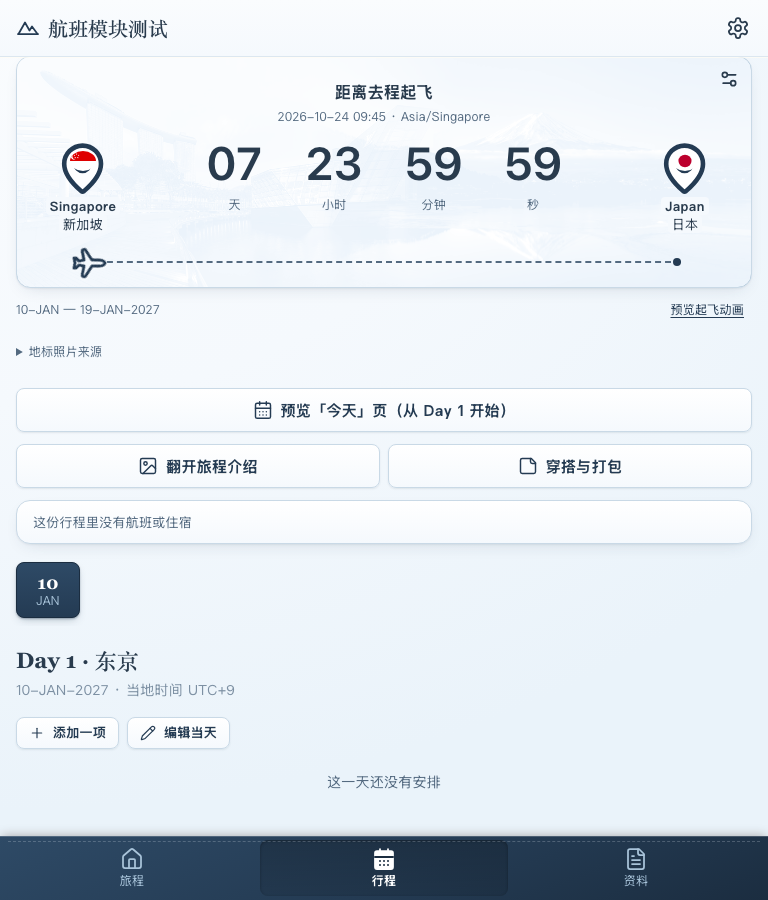
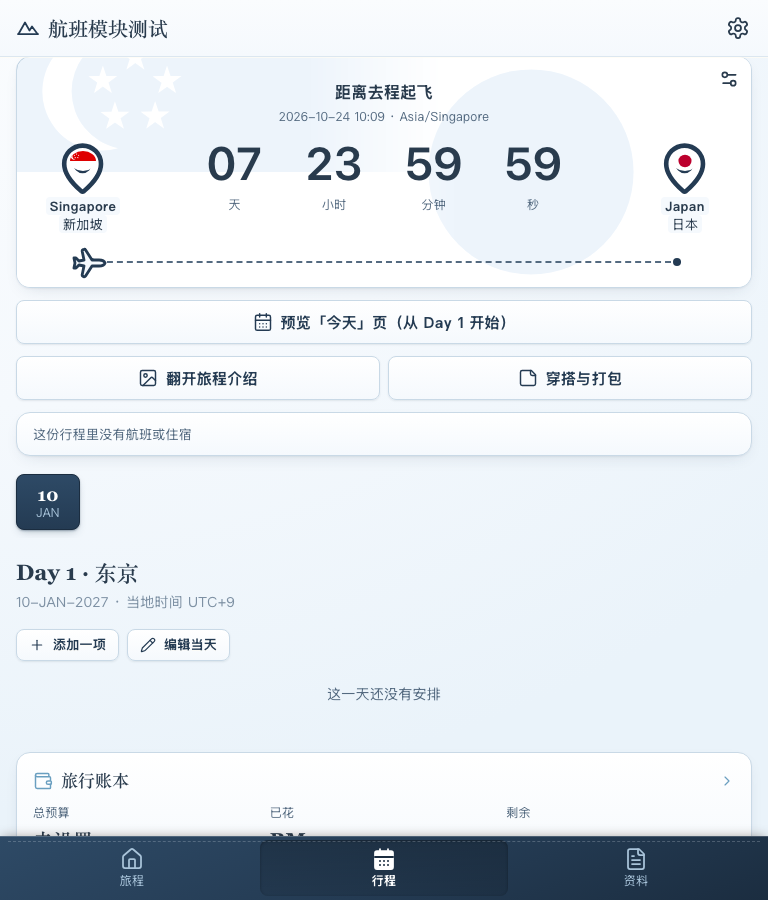
Add local flight-card photos, default flags, and clean card layout

diff --git a/src/components/FlightCountdown.tsx b/src/components/FlightCountdown.tsx
@@ -1,18 +1,18 @@
 import { memo, useEffect, useRef, useState } from 'react';
 import { Plane, MapPin, Settings2 } from 'lucide-react';
-import type { TripData } from '../hooks/data';
+import { useBlobUrl, type TripData } from '../hooks/data';
 import type { FlightCountdownSettings } from '../domain/types';
 import { asset, countries, countryOf, crossedDeparture, flightPhase, fromLocal, localTime, validFlightSettings, validZone } from '../domain/flightCountdown';
 import { remaining } from '../domain/countdown';
-import { setFlightCountdown } from '../db/repo';
+import { flightBackgroundKey, setFlightBackground, setFlightCountdown } from '../db/repo';
+import { prepareFile, TooLargeError } from '../lib/files';
 import { Sheet } from './Layout';
-import { Button, StatusChip } from './Basics';
+import { Button } from './Basics';
 import s from './FlightCountdown.module.css';
-import credits from '../../public/landing/flight-countdown/credits.json';
 
-const Scenery = memo(function Scenery({ origin, destination }: { origin: string; destination: string }) {
+const Scenery = memo(function Scenery({ origin, destination, left, right }: { origin: string; destination: string; left?: string; right?: string }) {
   const photographs = [origin, destination].map((code, i) => <div className={i ? s.rightImage : s.leftImage} key={i}>
-    {countryOf(code) && <img className={s.landmark} src={asset(code, 'landmark')} alt="" />}
+    {(i ? right : left) || countryOf(code) ? <img className={s.landmark} src={(i ? right : left) || asset(code, 'flag')} alt="" /> : null}
   </div>);
   return <div className={s.scenery} aria-hidden="true">{photographs}</div>;
 });
@@ -70,6 +70,8 @@ function initialDraft(td: TripData): Draft {
 }
 
 export default function FlightCountdown({ td, dateRange, offline }: { td: TripData; dateRange?: string; offline?: boolean }) {
+  const leftPhoto = useBlobUrl(flightBackgroundKey(td.trip.id, 'origin'));
+  const rightPhoto = useBlobUrl(flightBackgroundKey(td.trip.id, 'destination'));
   const value = validFlightSettings(td.trip.flightCountdown) ? td.trip.flightCountdown : undefined;
   const [editing, setEditing] = useState(false);
   const [demo, setDemo] = useState<FlightCountdownSettings>();
@@ -120,9 +122,28 @@ export default function FlightCountdown({ td, dateRange, offline }: { td: TripDa
     catch(e) { setError(e instanceof Error ? e.message : '保存失败，请重试。'); }
     finally { setBusy(false); }
   }
+  async function savePhoto(side: 'origin' | 'destination', file: File | null) {
+    setBusy(true); setError('');
+    try {
+      let blob: Blob | null = null;
+      if (file) {
+        if (!file.type.startsWith('image/') || file.type === 'image/svg+xml') throw new Error('请选择照片文件。');
+        blob = await prepareFile(file);
+        const url = URL.createObjectURL(blob);
+        try {
+          await new Promise<void>((resolve, reject) => {
+            const img = new Image(); img.onload = () => resolve(); img.onerror = () => reject(new Error('无法读取这张照片，请尝试 JPG、PNG 或 WebP。')); img.src = url;
+          });
+        } finally { URL.revokeObjectURL(url); }
+      }
+      await setFlightBackground(td.trip.id, side, blob);
+      setNotice(file ? '照片已保存到本机，已自动应用固定背景效果。' : '已恢复该侧国家的国旗背景。');
+    } catch (e) { setError(e instanceof TooLargeError ? '照片过大，请选择 20 MB 以内的照片。' : e instanceof Error && e.name === 'UnknownError' ? '当前浏览器无法保存照片，请使用普通浏览窗口再试。' : e instanceof Error ? e.message : '照片保存失败，请重试。'); }
+    finally { setBusy(false); }
+  }
   return <section className={s.module} aria-label="航班倒计时">
     <div className={s.card}>
-      <Scenery origin={origin} destination={destination} />
+      <Scenery origin={origin} destination={destination} left={leftPhoto} right={rightPhoto} />
       <button className={s.edit} aria-label="设置航班时间" onClick={openSettings}><Settings2 size={20} /></button>
       {demo || value ? <Clock key={JSON.stringify(demo ?? value)} value={(demo ?? value)!} demo={!!demo} /> : <div className={s.information}><p className={s.heading}>下一段旅程，从这里开始</p><p className={s.date}>设置去程与回程起飞时间，开启准确倒数</p><Button variant="outline" onClick={openSettings}>设置航班时间</Button></div>}
       {!demo && !value && <div className={s.route} aria-hidden="true"><span className={s.aircraft}><Plane size={34} /></span></div>}
@@ -135,20 +156,32 @@ export default function FlightCountdown({ td, dateRange, offline }: { td: TripDa
         </button>;
       })}
     </div>
-    <div className={s.footer}>
-      {dateRange && <span>{dateRange}</span>}
-      {offline && <StatusChip variant="success">行程已离线保存</StatusChip>}
-      <button type="button" className={s.preview} onClick={() => { if (demo) { setDemo(undefined); setNotice('已恢复真实航班状态。'); } else preview(); }}>{demo ? '返回真实倒数' : '预览起飞动画'}</button>
-    </div>
-    <p className={s.notice} role="status">{notice}</p>
-    <details className={s.credits}><summary>地标照片来源</summary><ul>{credits.filter(c => c.country === origin || c.country === destination).map(c => <li key={c.country}><a href={c.source} target="_blank" rel="noreferrer">{countryOf(c.country)?.landmark}</a> · {c.author} · <a href={c.license_url || c.source} target="_blank" rel="noreferrer">{c.license}</a>（已缩小、裁切与渐隐）</li>)}</ul></details>
     <Sheet open={!!pick} onClose={() => !busy && setPick(undefined)} title={pick === 'origin' ? '选择出发国家' : '选择目的地国家'}>
-      <div className={s.form}><p>每国一个固定地标。切换国家保留真实起飞时刻，并换算为该国默认时区。</p>
+      <div className={s.form}><p>默认背景跟随国家显示国旗；自选照片会保留。切换国家保留真实起飞时刻，并换算为该国默认时区。</p>
         <div className={s.countryGrid}>{countries.map(c => <button disabled={busy} key={c.code} onClick={() => void choose(c.code)} aria-pressed={(pick === 'origin' ? origin : destination) === c.code}><img src={asset(c.code,'flag')} alt="" /><span>{c.zh}<small>{c.en}</small></span></button>)}</div>
         {error && <p role="alert">{error}</p>}<Button variant="outline" disabled={busy} onClick={() => setPick(undefined)}>关闭</Button>
       </div>
     </Sheet>
     <Sheet open={editing} onClose={() => !busy && setEditing(false)} title="航班时间设置">
+      <div className={s.form}>
+        <div className={s.settingsMeta}>{dateRange && <span>{dateRange}</span>}{offline && <span>行程已离线保存</span>}</div>
+        <p>默认使用国旗。你可以替换左右照片；所有背景自动使用固定的黑白 Overlay 效果。</p>
+        <div className={s.photos}>
+          {(['origin', 'destination'] as const).map((side, i) => {
+            const photo = i ? rightPhoto : leftPhoto;
+            const country = i ? destination : origin;
+            const label = i ? '右侧' : '左侧';
+            return <div className={s.photoSlot} key={side}>
+              <div className={s.photoPreview}>{(photo || countryOf(country)) && <img src={photo || asset(country, 'flag')} alt={`${label}背景预览`} />}</div>
+              <label className={s.upload}>{label}背景照片<input type="file" accept="image/*" disabled={busy} onChange={e => { const file = e.target.files?.[0]; e.target.value = ''; if (file) void savePhoto(side, file); }} /></label>
+              <Button variant="outline" disabled={busy || !photo} onClick={() => void savePhoto(side, null)}>{label}恢复国旗</Button>
+            </div>;
+          })}
+        </div>
+        <Button variant="outline" disabled={busy} onClick={() => { setEditing(false); preview(); }}>预览起飞动画</Button>
+        <p className={s.notice} role="status">{notice}</p>
+        <details className={s.credits}><summary>国旗素材许可</summary><a href="/landing/flight-countdown/FLAGS-LICENSE.txt" target="_blank" rel="noreferrer">flag-icons · MIT</a></details>
+      </div>
       <form className={s.form} onSubmit={e => void save(e)}>
         <p>时间按各航段出发地的当地时区填写。国家采用默认时区；多时区国家可在下方调整。切换国家会换算已填写的有效时间，保持真实起飞时刻。</p>
         {(['origin','destination'] as const).map((side,i) => <label key={side}>{i ? '目的地国家' : '出发国家'}<select required value={draft[side]} onChange={e => changeCountry(side,e.target.value)}><option value="">请选择国家</option>{countries.map(c=><option key={c.code} value={c.code}>{c.zh} · {c.en}</option>)}</select></label>)}

diff --git a/src/__tests__/flightCountdown.test.ts b/src/__tests__/flightCountdown.test.ts
@@ -58,3 +58,44 @@ describe('flight persistence is trip-scoped and non-destructive',()=>{
   expect((await db.trips.get(trip.id))?.flightCountdown).toEqual(value);
  });
 });
+
+describe('flight background photo lifecycle', () => {
+ beforeEach(async()=>{await Promise.all(db.tables.map(t=>t.clear()));await db.trips.put(trip);await db.trips.put({...trip,id:'other'});});
+ it('isolates sides and trips, replaces a photo, and restores only that flag',async()=>{
+  const {setFlightBackground,flightBackgroundKey}=await import('../db/repo');
+  const first=new Blob(['first'],{type:'image/jpeg'}),second=new Blob(['second'],{type:'image/png'});
+  await setFlightBackground(trip.id,'origin',first);await setFlightBackground(trip.id,'destination',second);
+  await setFlightBackground(trip.id,'origin',second);
+  expect(await (await db.blobs.get(flightBackgroundKey(trip.id,'origin')))!.blob.text()).toBe('second');
+  expect(await db.blobs.get(flightBackgroundKey('other','origin'))).toBeUndefined();
+  await setFlightBackground(trip.id,'origin',null);
+  expect(await db.blobs.get(flightBackgroundKey(trip.id,'origin'))).toBeUndefined();
+  expect(await (await db.blobs.get(flightBackgroundKey(trip.id,'destination')))!.blob.text()).toBe('second');
+  expect((await db.trips.get(trip.id))?.startDate).toBe(trip.startDate);
+ });
+ it('rejects invalid images and deleted trips without creating orphan blobs',async()=>{
+  const {setFlightBackground}=await import('../db/repo');
+  for(const blob of [new Blob(['bad'],{type:'text/plain'}),new Blob(['<svg/>'],{type:'image/svg+xml'}),new Blob([],{type:'image/jpeg'})]) await expect(setFlightBackground(trip.id,'origin',blob)).rejects.toThrow();
+  await expect(setFlightBackground('missing','origin',new Blob(['x'],{type:'image/jpeg'}))).rejects.toThrow();
+  expect(await db.blobs.count()).toBe(0);
+ });
+ it('includes photos only in this trip package and restores their bytes',async()=>{
+  const {setFlightBackground,flightBackgroundKey,exportTripPackage,restoreBackupDetailed,tripPackageInfo}=await import('../db/repo');
+  await setFlightBackground(trip.id,'origin',new Blob(['my photo'],{type:'image/jpeg'}));
+  await setFlightBackground('other','origin',new Blob(['other photo'],{type:'image/png'}));
+  expect(await tripPackageInfo(trip.id)).toEqual({files:1,bytes:8});
+  const zip=await exportTripPackage(trip.id,{attachments:true});
+  await Promise.all(db.tables.map(t=>t.clear()));await restoreBackupDetailed(zip);
+  expect(await (await db.blobs.get(flightBackgroundKey(trip.id,'origin')))!.blob.text()).toBe('my photo');
+  expect(await db.blobs.get(flightBackgroundKey('other','origin'))).toBeUndefined();
+ });
+ it('preserves photos through itinerary reimport and cleans them up when deleting the trip',async()=>{
+  const {setFlightBackground,flightBackgroundKey,deleteTrip}=await import('../db/repo');
+  await setFlightBackground(trip.id,'origin',new Blob(['photo'],{type:'image/jpeg'}));
+  const parsed=parseMd('# 测试旅程\n- 出发地时区: Asia/Singapore\n## Day 1 | 2027-01-10 | 东京 | Asia/Tokyo\n### 09:00 | spot | 测试景点');
+  await saveImport(parsed,'synthetic QA',trip.id);
+  expect(await db.blobs.get(flightBackgroundKey(trip.id,'origin'))).toBeDefined();
+  await deleteTrip(trip.id);expect(await db.blobs.get(flightBackgroundKey(trip.id,'origin'))).toBeUndefined();
+  expect(await db.trips.get('other')).toBeDefined();
+ });
+});

diff --git a/src/db/repo.ts b/src/db/repo.ts
@@ -407,7 +407,7 @@ export async function deleteTrip(tripId: string): Promise<void> {
     await db.packItems.where('tripId').equals(tripId).delete();
     await db.packChecks.where('tripId').equals(tripId).delete();
     const docs = await db.docs.where('tripId').equals(tripId).toArray();
-    await db.blobs.bulkDelete([...docs.map((d) => d.blobKey), ...(trip?.coverBlobKey ? [trip.coverBlobKey] : [])]);
+    await db.blobs.bulkDelete([...docs.map((d) => d.blobKey), ...(trip?.coverBlobKey ? [trip.coverBlobKey] : []), flightBackgroundKey(tripId, 'origin'), flightBackgroundKey(tripId, 'destination')]);
     await db.docs.bulkDelete(docs.map((d) => d.id));
     await db.days.where('tripId').equals(tripId).delete();
     await db.items.where('tripId').equals(tripId).delete();
@@ -503,7 +503,9 @@ async function tripBlobKeys(tripId: string): Promise<{ keys: string[]; missing: 
   const trip = await db.trips.get(tripId);
   const docs = await db.docs.where('tripId').equals(tripId).toArray();
   const garments = await tripGarments(tripId);
+  const flightPhotos = (await db.blobs.bulkGet([flightBackgroundKey(tripId, 'origin'), flightBackgroundKey(tripId, 'destination')])).filter((b): b is BlobRecord => !!b);
   const wanted = [
+    ...flightPhotos.map(b => b.key),
     ...docs.filter((d) => !isLinkDoc(d)).map((d) => d.blobKey),
     ...(trip?.coverBlobKey ? [trip.coverBlobKey] : []),
     ...garments.flatMap((g) => (g.photoBlobKey ? [g.photoBlobKey] : [])),
@@ -932,4 +934,20 @@ export async function setFlightCountdown(tripId: string, value: import('../domai
   if (!validFlightSettings(value)) throw new Error('请检查国家、时区及起飞时间，回程必须晚于去程。');
   const updated = await db.trips.update(tripId, { flightCountdown: value, updatedAt: now() });
   if (!updated) throw new Error('旅程已不存在，无法保存。');
+}
+
+/** Flight-card photos use the existing blob table; deterministic keys survive reimport. */
+export function flightBackgroundKey(tripId: string, side: 'origin' | 'destination'): string {
+  return `flight-background:${tripId}:${side}`;
+}
+export async function setFlightBackground(tripId: string, side: 'origin' | 'destination', blob: Blob | null): Promise<void> {
+  if (blob && (!blob.type.startsWith('image/') || blob.type === 'image/svg+xml' || !blob.size || blob.size > 20 * 1024 * 1024)) throw new Error('请选择 20 MB 以内的有效照片。');
+  // Materialize file-backed data before the transaction (Safari cannot always persist picked File handles).
+  const photo = blob ? new Blob([await blob.arrayBuffer()], { type: blob.type }) : null;
+  await db.transaction('rw', db.trips, db.blobs, async () => {
+    if (!await db.trips.get(tripId)) throw new Error('旅程已不存在，无法保存。');
+    const key = flightBackgroundKey(tripId, side);
+    if (photo) await db.blobs.put({ key, blob: photo });
+    else await db.blobs.delete(key);
+  });
 }

diff --git a/src/components/FlightCountdown.module.css b/src/components/FlightCountdown.module.css
@@ -20,8 +20,8 @@
 .route { position: absolute; left: 55px; right: 55px; z-index: 3; pointer-events: none; bottom: 20px; border-top: 2px dashed var(--color-icon); height: 1px; }
 .route::before, .route::after { content: ''; position: absolute; top: -5px; width: 8px; height: 8px; border-radius: 50%; background: var(--color-primary); }
 .route::before { left: 0; }.route::after { right: 0; }
-.aircraft { position: absolute; left: 0; bottom: 0; width: 100%; height: 34px; color: var(--color-primary); pointer-events: none; filter: drop-shadow(0 1px 1px var(--color-surface)); }
-.aircraft svg { transform: translate(-50%, 17px) rotate(45deg); fill: var(--color-surface-subtle); }
+.aircraft { position: absolute; left: 0; bottom: 0; width: 100%; height: 34px; color: var(--color-primary); pointer-events: none; }
+.aircraft svg { display: block; overflow: visible; transform: translate(-50%, 17px) rotate(45deg); fill: var(--color-surface-subtle); }
 .trail { position: absolute; top: -2px; height: 2px; width: 100%; background: var(--color-accent); transform-origin: left; transform: scaleX(0); }
 .flying .aircraft { animation: flight 4.6s linear both; }
 .flying .trail { animation: trail 4.6s linear both; }
@@ -49,5 +49,12 @@
 
 .credits { font-size: var(--fs-caption); color: var(--color-text-2); }.credits summary { cursor: pointer; min-height: 44px; padding-top: 12px; }.credits a { color: var(--color-primary); text-decoration: underline; }.credits ul { padding-left: 20px; overflow-wrap: anywhere; }
 
-.footer { display: flex; align-items: center; flex-wrap: wrap; gap: var(--space-2); font-size: var(--fs-caption); color: var(--color-text-2); }
-.preview { margin-left: auto; min-height: 44px; padding: 0 8px; color: var(--color-primary); text-decoration: underline; text-underline-offset: 3px; }
+
+.settingsMeta { display: flex; flex-wrap: wrap; gap: 12px; font-size: var(--fs-caption); color: var(--color-text-2); }
+.photos { display: grid; grid-template-columns: repeat(2, minmax(0, 1fr)); gap: 12px; }
+.photoSlot { min-width: 0; display: flex; flex-direction: column; gap: 8px; }
+.photoPreview { height: 90px; overflow: hidden; isolation: isolate; border-radius: var(--radius-sm); background: var(--color-surface-subtle); }
+.photoPreview img { width: 100%; height: 100%; object-fit: cover; filter: grayscale(1) contrast(1.2); mix-blend-mode: overlay; }
+.form .upload { position: relative; min-height: 44px; display: grid; place-items: center; padding: 8px; border: 1px solid var(--color-border); border-radius: var(--radius-sm); cursor: pointer; background: var(--color-surface-subtle); text-align: center; }
+.upload input { position: absolute; inset: 0; opacity: 0; cursor: pointer; }
+.upload:focus-within { outline: 2px solid var(--color-primary); outline-offset: 2px; }

diff --git a/qa/flight-countdown/photos.py b/qa/flight-countdown/photos.py
@@ -1,0 +1,63 @@
+import os,json,tempfile,shutil
+from pathlib import Path
+from playwright.sync_api import sync_playwright,expect
+base=os.environ.get('FLIGHT_QA_URL','http://127.0.0.1:4190')
+out=Path('outputs');out.mkdir(exist_ok=True)
+results={}
+production=os.environ.get('FLIGHT_QA_PRODUCTION')=='1'
+with sync_playwright() as pw:
+ for name in os.environ.get('FLIGHT_QA_BROWSERS','chromium,webkit').split(','):
+  profile=None
+  if name=='webkit':
+   # WebKit private contexts cannot store Blob records; use an isolated normal profile.
+   profile=tempfile.mkdtemp(prefix='flight-webkit-')
+   ctx=pw.webkit.launch_persistent_context(profile,viewport={'width':1280,'height':900})
+   browser=None
+  else:
+   browser=getattr(pw,name).launch();ctx=browser.new_context(viewport={'width':1280,'height':900})
+  page=ctx.new_page();page.goto(base)
+  if production:
+   page.evaluate('''async()=>{await navigator.serviceWorker.ready;await new Promise((resolve,reject)=>{const req=indexedDB.open('travel-rundown');req.onsuccess=()=>{const db=req.result;const tx=db.transaction(['trips','days'],'readwrite');tx.objectStore('trips').put({id:'photo-qa',title:'东京 · 富士山 · 北海道',startDate:'2027-01-10',endDate:'2027-01-19',homeTz:'Asia/Singapore',destination:'日本',theme:'summer',translate:{app:'google-translate',from:'auto',to:'zh-CN'},sourceMd:'',importedAt:'',updatedAt:'',flightCountdown:{origin:'SG',destination:'JP',departureTz:'Asia/Singapore',returnTz:'Asia/Tokyo',departureAt:Date.now()+86400000,returnAt:Date.now()+864000000}});tx.objectStore('days').put({id:'photo-day',tripId:'photo-qa',index:1,date:'2027-01-10',tz:'Asia/Tokyo',city:'东京'});tx.oncomplete=()=>{db.close();resolve()};tx.onerror=reject;};req.onerror=reject;});}''')
+  else:
+   page.evaluate('''async()=>{const {db}=await import('/src/db/schema.ts');await db.trips.put({id:'photo-qa',title:'东京 · 富士山 · 北海道',startDate:'2027-01-10',endDate:'2027-01-19',homeTz:'Asia/Singapore',destination:'日本',theme:'summer',translate:{app:'google-translate',from:'auto',to:'zh-CN'},sourceMd:'',importedAt:'',updatedAt:'',flightCountdown:{origin:'SG',destination:'JP',departureTz:'Asia/Singapore',returnTz:'Asia/Tokyo',departureAt:Date.now()+86400000,returnAt:Date.now()+864000000}});await db.days.put({id:'photo-day',tripId:'photo-qa',index:1,date:'2027-01-10',tz:'Asia/Tokyo',city:'东京'});}''')
+  page.goto(base+'/itinerary/photo-qa');card=page.locator('section[aria-label="航班倒计时"]');expect(card).to_be_visible();scenery=card.locator('div[aria-hidden="true"]').first
+  expect(scenery.locator('img')).to_have_count(2);assert scenery.locator('img').evaluate_all('(xs)=>xs.every(x=>x.src.endsWith("-flag.svg"))')
+  assert card.locator(':scope > *').count()==1
+  page.screenshot(path=str(out/f'{name}-flag-default.png'))
+  plane=page.locator('[data-flight-route] svg');r=plane.bounding_box();page.screenshot(path=str(out/f'{name}-plane-before.png'),clip={'x':r['x']-6,'y':r['y']-6,'width':r['width']+12,'height':r['height']+12})
+  page.get_by_role('button',name='设置航班时间',exact=True).first.click()
+  page.get_by_label('左侧背景照片').set_input_files('public/landing/flight-countdown/SG-landmark.png')
+  expect(page.get_by_role('status')).to_contain_text('照片已保存')
+  page.get_by_label('右侧背景照片').set_input_files('public/landing/flight-countdown/JP-landmark.png')
+  expect(page.get_by_role('button',name='右侧恢复国旗')).to_be_enabled()
+  page.wait_for_timeout(250);page.screenshot(path=str(out/f'{name}-photo-settings.png'))
+  page.get_by_label('左侧背景照片').set_input_files({'name':'bad.png','mimeType':'image/png','buffer':b'not a photo'})
+  expect(page.get_by_role('alert')).to_contain_text('无法读取')
+  page.keyboard.press('Escape');page.reload();expect(scenery.locator('img[src^="blob:"]')).to_have_count(2)
+  assert scenery.evaluate('(e)=>getComputedStyle(e).filter')=='grayscale(1) contrast(1.2)'
+  assert scenery.evaluate('(e)=>getComputedStyle(e).mixBlendMode')=='overlay'
+  assert scenery.locator('img').evaluate_all('(xs)=>xs.every(x=>x.complete&&x.naturalWidth>0)')
+  for width in [1280,768,390,320]:
+   page.set_viewport_size({'width':width,'height':900});card.scroll_into_view_if_needed();page.wait_for_timeout(150);assert page.evaluate('document.documentElement.scrollWidth<=innerWidth')
+   page.screenshot(path=str(out/f'{name}-custom-{width}.png'))
+  page.get_by_role('button',name='修改目的地国家').click();page.get_by_role('button',name='泰国 Thailand').click();expect(page.get_by_role('dialog')).to_have_count(0)
+  expect(scenery.locator('img[src^="blob:"]')).to_have_count(2)
+  page.get_by_role('button',name='设置航班时间',exact=True).first.click()
+  page.get_by_role('button',name='左侧恢复国旗').click();expect(page.get_by_role('status')).to_contain_text('已恢复该侧');expect(page.get_by_role('button',name='左侧恢复国旗')).to_be_disabled()
+  page.keyboard.press('Escape');page.reload();expect(scenery.locator('img[src^="blob:"]')).to_have_count(1)
+  assert scenery.locator('img').first.get_attribute('src').endswith('SG-flag.svg')
+  if production:
+   page.wait_for_function('navigator.serviceWorker.controller!==null')
+   ctx.set_offline(True);page.reload();expect(scenery.locator('img[src^="blob:"]')).to_have_count(1)
+   assert scenery.locator('img').nth(1).evaluate('(x)=>x.complete&&x.naturalWidth>0')
+   page.get_by_role('button',name='设置航班时间',exact=True).first.click()
+   page.get_by_label('左侧背景照片').set_input_files('public/landing/flight-countdown/CN-landmark.png')
+   expect(page.get_by_role('status')).to_contain_text('照片已保存');page.keyboard.press('Escape');page.reload()
+   expect(scenery.locator('img[src^="blob:"]')).to_have_count(2)
+   assert scenery.locator('img').evaluate_all('(xs)=>xs.every(x=>x.complete&&x.naturalWidth>0)')
+  results[name]={'offline_reload_and_upload':production,'defaults':'flags','uploads':'two sides survive reload','style':'fixed grayscale overlay','reset':'one side only','invalid_photo':'rejected','country_change':'custom photo retained','widths':[1280,768,390,320]}
+  print(name,results[name],flush=True)
+  ctx.close()
+  if browser:browser.close()
+  if profile:shutil.rmtree(profile)
+json.dump(results,open(out/'photo-checks.json','w'),indent=2);print(json.dumps(results))

diff --git a/qa/flight-countdown/motion.py b/qa/flight-countdown/motion.py
@@ -13,6 +13,7 @@ with sync_playwright() as pw:
   page.evaluate('''async()=>{const {db}=await import('/src/db/schema.ts');await db.trips.put({id:'motion-qa',title:'东京 · 富士山 · 北海道',startDate:'2027-01-10',endDate:'2027-01-19',homeTz:'Asia/Singapore',destination:'日本',theme:'winter',translate:{app:'google-translate',from:'auto',to:'zh-CN'},sourceMd:'',importedAt:'',updatedAt:'',flightCountdown:{origin:'SG',destination:'JP',departureTz:'Asia/Singapore',returnTz:'Asia/Tokyo',departureAt:Date.now()-100000,returnAt:Date.now()-10000}});await db.days.put({id:'motion-day',tripId:'motion-qa',index:1,date:'2027-01-10',tz:'Asia/Tokyo',city:'东京'});}''')
   page.goto(base+'/itinerary/motion-qa');card=page.locator('section[aria-label="航班倒计时"]');expect(card).to_have_count(1);card.scroll_into_view_if_needed()
   saved=page.evaluate('''async()=>{const {db}=await import('/src/db/schema.ts');return (await db.trips.get('motion-qa')).flightCountdown}''')
+  page.get_by_role('button',name='设置航班时间',exact=True).first.click()
   page.get_by_role('button',name='预览起飞动画').click()
   page.wait_for_selector('[data-flight-phase="flying"]')
   plane=page.locator('[data-flight-route] svg')

diff --git a/docs/flight-countdown/README.md b/docs/flight-countdown/README.md
@@ -1,47 +1,28 @@
-# 行程页顶部航班倒计时
+# 行程页顶部航班卡
 
-本 PR 仅实现用户授权的航班倒计时模块。根据 2026-10-16 截图反馈，入口改为行程页顶部原 HeroCover 位置；StoryPage 恢复与 main 一致。
-视觉依据：用户提供的 `Travel_Rundown_Flight_Countdown_Claude_Package/reference_visual.png`；行为依据同包 Markdown 与 HTML 原型。参考包不进入应用，截图中的示例航班日期不作为真实数据。
+仅开发用户授权的航班卡模块。卡片位于行程页原 HeroCover 位置，StoryPage 与 main 一致。默认国旗或用户自己的左右照片，各占卡片宽度 60%，中间 20% 交叉融合。背景固定为黑白 Overlay、opacity 1、contrast 1.2，无模糊和可调滤镜。Pin 内彩色小国旗保留，Pin 图标为 55.2px。
 
-## 改动边界
+## 界面与行为
 
-- `ItineraryPage.tsx` 仅替换顶部封面为航班卡并移除不再使用的封面 URL hook。日期及离线状态仍显示。
-- `PhaseCard.tsx` 新增可选参数，仅在本入口隐藏旧的重复出发倒数，其他准备提醒、统计和操作完整保留。
-- `StoryPage.tsx` 与 main 一致；原照片环、标题、行程、餐饮等内容不变。
-- 新增 `FlightCountdown.tsx` / CSS 和纯计算模块 `domain/flightCountdown.ts`。
-- `Trip` 仅新增可选 `flightCountdown`，旧旅程无需迁移；使用原 Dexie trip 表，无新数据库、表、索引或版本号。
-- `repo.ts` 仅新增配置保存函数，以及重新导入时保留该配置的一行赋值。没有修改导入解析、行程日期、项目 key、订单或其他业务行为。
-- 未修改 tokens、全局样式、依赖、PWA 配置、guard 或锁文件。卡片读取现有四季变量；PNG / SVG 进入已有预缓存规则，首次成功缓存后支持离线换国。
-- 新增模块专用照片、国旗、作者及许可证记录；照片衍生文件仍遵守各自原许可证。国旗来自 flag-icons v7.5.0（MIT）。
+- 每阶段仅显示一张卡。原卡片下的日期、离线提示、保存说明、来源和预览入口全部收进右上角设置，不再占据行程页空间。
+- 设置中可独立上传、替换左右照片，或恢复该侧当前国家的国旗；切换国家保留自选照片。上传会使用现有图片压缩流程，校验实际可解码性，拦截损坏文件和超过限制的照片。
+- 起飞按每航段的当地时区输入，保存 UTC 毫秒及 IANA 时区。去程到点后沿航线飞行 4.6 秒，再切换距离回程起飞的倒数。起飞前的完整飞机已移除导致裁切的父级滤镜。
+- 晚进入、刷新或休眠恢复按真实时刻定位；不重播过去起飞。尊重减少动态效果，回程起飞后显示结束。设置中的演示只用组件内存，8.5 秒后恢复真实状态，不写入虚拟时间。
 
-## 时间与状态
+## 数据和改动边界
 
-保存 UTC 毫秒和 IANA 显示时区；两段都按各自出发地当地时间解释。切换国家保留已保存的真实瞬间并更新显示时区。直接编辑时区时，表单明确说明会重新解释当地时间。非法日期、时区、夏令时缺失/重复时刻和不晚于去程的回程均拦截。
-
-只有连续可见页面跨过去程时刻才播放 4.6s 飞机过场。晚进入、刷新和休眠恢复按绝对时间定位；减少动态效果时跳过动画。回程起飞后显示结束，不倒数到回程落地。无配置时显示设置入口，不虚构机票信息。每份旅程独立，保存的卡片设置不随行程改期自动平移，需在卡片中明确修改。
-
-照片在中间重叠交叉合成，没有纯色空白间隔；按最新反馈恢复原图细节、去掉模糊，并使用黑白 Overlay 混合。飞机位于连线上，抵达后保留在右侧。新增“预览起飞动画”，1.5 秒后播放相同的 4.6 秒动画，8.5 秒后恢复真实状态；演示只在组件内存中运行，不保存虚拟时间。
+- 自选照片沿用现有 blobs 表和 useBlobUrl 生命周期，键为 flight-background:<tripId>:origin / destination；没有新表、字段、数据库版本或依赖。
+- repo.ts 新增模块专用照片保存函数。删除旅程时清理该旅程的两张照片；含附件旅行包导出仅额外收集该旅程已存在的照片。本机全部备份原有流程自动包含它们。重新导入不删除这些 blob。
+- 原有 flightCountdown 是 Trip 的可选配置；导入时保留该值，不改原行程日期、项目、订单或文件绑定。
+- ItineraryPage 仅替换原封面接入。PhaseCard 仅隐藏重复倒数，保留准备提醒、统计及原有操作。其他业务流程、主题 tokens、PWA 配置、解析器、依赖和 guard 没有修改。
 
 ## 验证
 
-- 完整 `npm test`：20 文件 / 180 测试通过；`npm run build` 通过。新增 8 项时间与持久化测试。
-- Chromium 与 Safari WebKit：实测飞机 SVG 横坐标持续增加，真实时间到点与手动演示都能飞行；演示前后保存对象完全一致。Story 页确认不再出现卡片。
-- 浏览器：1280 / 768 / 390 / 320，无横向溢出；四季截图；Pin、设置弹层与 Escape、实际表单保存、错误拦截、减少动态效果、刷新后状态、到点过场与结束状态。
-- 浏览器系统时区设为 America/Los_Angeles，检查新加坡和日本的实际 UTC 值。
-- 生产构建 Service Worker：断网刷新、离线换到此前未打开的印尼、照片加载及保存后刷新均通过。
-- 截图和测试中的旅程全部为隔离的合成 QA 数据。
-- `qa/flight-countdown/` 的 visual.py / interaction.py / motion.py 对本机 Vite dev :4190 测试；offline.py 对 preview :4191 测试。开发服务器端口可用 FLIGHT_QA_URL 覆盖。需要 Python Playwright + Chromium + WebKit，在仓库根目录运行，结果写入 outputs/。先启动对应服务器。
+- npm run build 通过。npm test：20 文件 / 184 测试通过，航班模块 12 项，覆盖 UTC、DST、阶段、隔离保存及照片替换、恢复、旅行包往返、重新导入和删除清理。
+- qa/flight-countdown/visual.py、interaction.py、motion.py、photos.py 为隔离合成数据验证。开发地址默认 :4190，可用 FLIGHT_QA_URL 覆盖。
+- photos.py 在 FLIGHT_QA_PRODUCTION=1 时通过原生 IndexedDB 准备数据，并检查断网刷新和离线上传。FLIGHT_QA_BROWSERS 可选 chromium 或 webkit，默认两者。WebKit 使用独立的普通持久配置（验证工具 Playwright 1.64）；私密会话无法存储 Blob，失败时界面提供使用普通窗口的提示。
+- 浏览器覆盖 1280 / 768 / 390 / 320，四季主题、文件错误拦截、照片重载、单侧恢复、国家切换及动画。图片和结果位于本目录。
 
-## 给另一条线 / 合并前事项
+## 给另一条线：护栏例外待审核
 
-本次用户明确授权航班模块的交互和必要持久化，范围超出旧 B 线“仅 JSX/CSS”的限制。护栏如实失败：`src/db/repo.ts`、`src/domain/types.ts`、新增 `src/domain/flightCountdown.ts`、新增测试。强制 `GUARD_LINE=B` 还会报告新组件中的必要 hooks 与保存逻辑。这不是误报；没有更新锁或关闭检查。请负责 A 线的维护者审核模块例外，再按项目流程处理护栏。此 PR 不合并、不部署生产。
-
-所有原功能代码按最新 main 保留；本次 main 的 #26 行程编辑功能不属于本 PR。
-
-韩国固定地标采用景福宫（规格中的首尔塔为建议项）。首尔塔候选照片带建筑版权限制或主体不清晰；景福宫采用有明确 CC0 许可的实景，仍保持每国一图。
-
-## 背景 Overlay 调整（2026-10-16）
-按用户最新要求，恢复原图细节，去掉整体和中心的模糊，保留两国照片直接交叉融合。背景合成层使用 grayscale(1)、mix-blend-mode: overlay。CSS opacity 最大为 1，所述 120% 以 opacity: 1 + contrast(1.2) 呈现更强图像效果，并非可用的 120% opacity。Pin、正文和飞机不参与滤镜。此次仅改模块背景 CSS，未改数据或动画。
-
-## 照片占比与 Pin（2026-10-16）
-左右地标各占卡片宽度 60%，中间 40%–60% 为 20% 重叠交叉融合区。移除背景大国旗及旧的隐藏模糊副本，Pin 内国旗保留。Pin 图标和其国旗同比放大 20%（46px → 55.2px）。保持已确认的黑白 Overlay 配色。
+用户明确授权本模块交互与必要持久化，超出旧 B 线仅 JSX/CSS 分工。npm run guard 如实失败：repo.ts、types.ts、新纯逻辑与测试；B 线扫描也会报告组件必要 hooks。本次未修改锁文件或关闭检查。A 线维护者需审核模块例外。PR 保持草稿，不合并、不部署生产。
